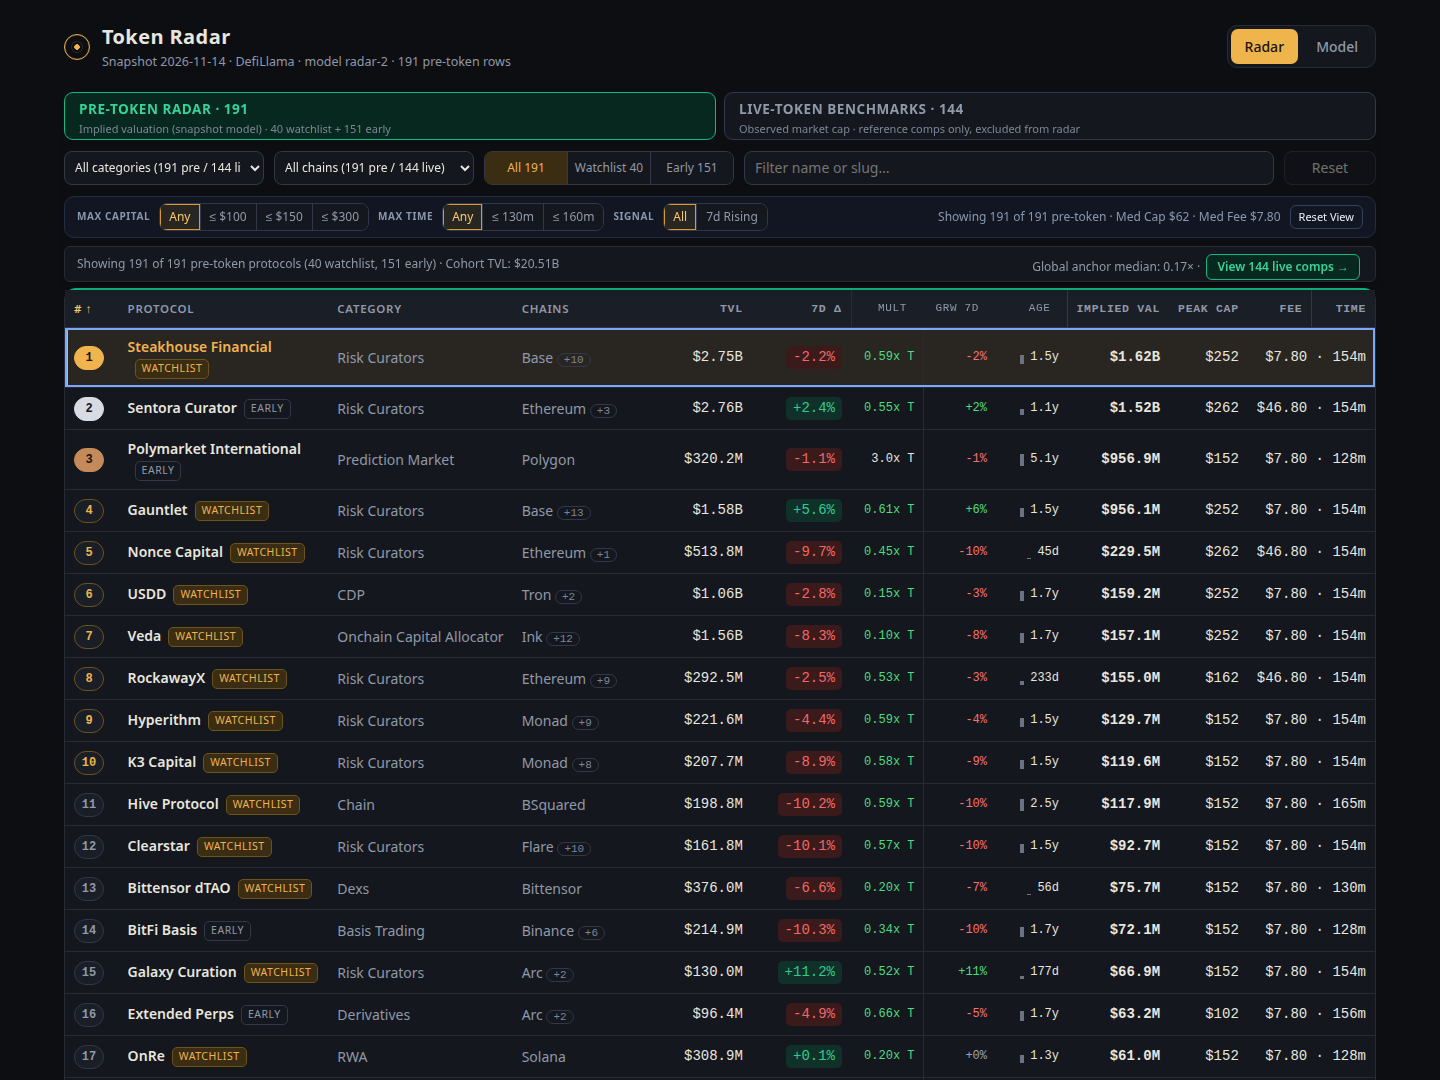
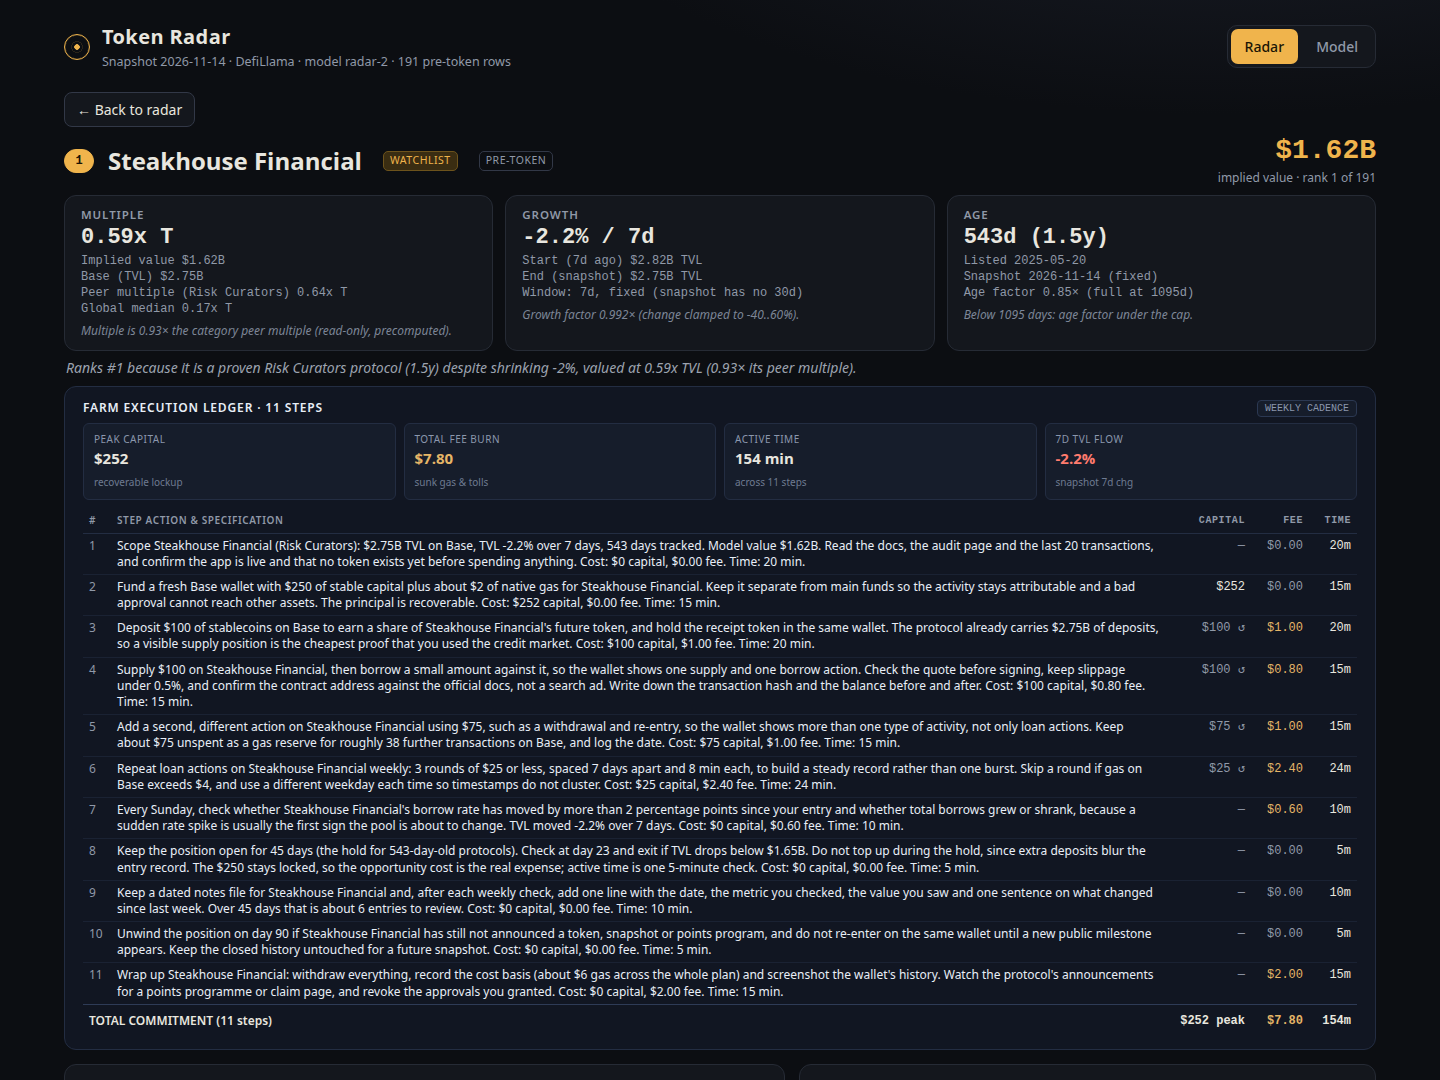
Dashboard v11: valuation breakdown and cohort position in detail view

Changed region(s): [[0.0312, 0.0611, 0.9688, 1.0], [0.375, 0.9778, 0.4062, 1.0]]

diff --git a/dashboard/app.js b/dashboard/app.js
@@ -271,6 +271,24 @@
         return '<tr><td class="flat">' + s.n + '</td><td class="tx">' + esc(r.farm_steps[i]) + '</td><td class="n">' + c + '</td><td class="n ' + (s.fee_usd ? 'fee' : 'flat') + '">' + fee(s.fee_usd) + '</td><td class="n">' + s.mins + 'm</td></tr>';
       }).join('') + '</tbody><tfoot><tr><td colspan="2">TOTAL COMMITMENT (' + k + ' steps)</td><td class="n">' + cap(e.peak_cap_usd) + ' peak</td><td class="n fee">' + fee(e.total_fee_usd) + '</td><td class="n">' + e.total_mins + 'm</td></tr></tfoot></table></div>';
   }
+  // Valuation breakdown + cohort position: numbers precomputed at build time (lib/breakdown.ts), only formatted here.
+  function bdCard(r) {
+    var b = r.bd.b, c = r.bd.c, k = b.category, g = b.growth, a = b.maturity, h = b.chain;
+    var row = function (t, v) { return '<dt>' + t + '</dt><dd>' + v + '</dd>'; };
+    return '<div class="card"><h3>Valuation breakdown</h3><dl class="kv">' +
+      row('TVL', full(b.tvl_usd)) +
+      row('Category median', k.raw_median === null ? 'none (0 live)' : k.raw_median.toFixed(3)) +
+      row('Global median', k.global_median.toFixed(3)) +
+      row('Live n · weight', k.n + ' · ' + k.weight.toFixed(3)) +
+      row('Multiple', x(k.multiple) + (k.multiple !== k.blended ? ' (clamped from ' + k.blended.toFixed(3) + ')' : '')) +
+      row('Growth', g.change_7d === null ? '—' : g.change_7d.toFixed(1) + '%') +
+      row('Growth used · ×', g.pct_used + '% · ' + x(g.multiplier)) +
+      row('Age days · ×', (a.age_days === null ? 'unknown (' + a.age_used + ')' : a.age_days) + ' · ' + x(a.multiplier)) +
+      row('Chains · ×', h.count + ' (+' + h.extra + ') · ' + x(h.multiplier)) +
+      row('Product = implied', full(b.implied_value_usd)) +
+      '</dl><p class="take">Cohort: rank ' + r.bd.c.rank_by_implied + ' of ' + c.cohort_size + ' in ' + esc(c.category) + ', percentile ' + c.percentile.toFixed(1) + ', category median implied ' + (c.median_implied_usd === null ? '—' : full(c.median_implied_usd)) + '</p></div>';
+  }
+
   function detailView(slug) {
     var r = bySlug[slug];
     if (!r) { app.innerHTML = '<div class="empty">Unknown protocol. <a href="#board">Back to board</a></div>'; return; }
@@ -295,8 +313,8 @@
       line('×', 'Maturity', ageNote, x(m.maturity_multiplier), track(m.maturity_multiplier, C.maturity_floor, C.maturity_floor + C.maturity_range)) +
       line('×', 'Chain', nch + ' chain' + (nch === 1 ? '' : 's') + ': 1 + ' + C.chain_step + ' × clamp(' + nch + ' − 1, 0, ' + C.chain_max_extra + ')', x(m.chain_multiplier), track(m.chain_multiplier, 1, 1 + C.chain_step * C.chain_max_extra)) +
       '<tr class="res"><td class="op">=</td><td class="lbl"><b>Implied value</b><small>unrounded product ' + full(product) + '; rounded, kept within 1 to 1e14</small></td><td class="v">' + full(r.implied_value_usd) + '</td></tr></tbody></table></div>' +
-      '<div class="card"><h3>Basics</h3><dl class="kv"><dt>Slug</dt><dd>' + esc(r.slug) + '</dd><dt>Category</dt><dd>' + esc(r.cat) + '</dd><dt>Listed</dt><dd>' + esc(r.listed_at || 'unknown') + '</dd><dt>TVL</dt><dd>' + usd(r.tvl_usd) + '</dd><dt>7d TVL change</dt><dd>' + chg(r.tvl_7d_pct) + '</dd><dt>Token</dt><dd>none yet (mcap null)</dd><dt>Board scope</dt><dd>' + (r.watchlist ? 'watchlist' : 'early (eligible extra)') + '</dd></dl>' +
-      '<div class="chips">' + r.chains.map(function (c) { return '<span>' + esc(c) + '</span>'; }).join('') + '</div></div></div>';
+      '<div><div class="card"><h3>Basics</h3><dl class="kv"><dt>Slug</dt><dd>' + esc(r.slug) + '</dd><dt>Category</dt><dd>' + esc(r.cat) + '</dd><dt>Listed</dt><dd>' + esc(r.listed_at || 'unknown') + '</dd><dt>TVL</dt><dd>' + usd(r.tvl_usd) + '</dd><dt>7d TVL change</dt><dd>' + chg(r.tvl_7d_pct) + '</dd><dt>Token</dt><dd>none yet (mcap null)</dd><dt>Board scope</dt><dd>' + (r.watchlist ? 'watchlist' : 'early (eligible extra)') + '</dd></dl>' +
+      '<div class="chips">' + r.chains.map(function (c) { return '<span>' + esc(c) + '</span>'; }).join('') + '</div></div>' + bdCard(r) + '</div></div>';
     document.getElementById('bk').onclick = function () { location.hash = '#board'; };
   }
 

diff --git a/lib/breakdown.ts b/lib/breakdown.ts
@@ -1,0 +1,70 @@
+// Display-only valuation breakdown + cohort position. Factors and the implied value come straight from model.ts
+// (factors / impliedOf), so the breakdown cannot drift from the board. Computed at build time; the browser never recomputes the model.
+import type { Protocol, CategoryStat } from './model.ts';
+import { MODEL, UNCATEGORIZED, median, factors, impliedOf } from './model.ts';
+
+export interface Breakdown {
+  slug: string;
+  tvl_usd: number;
+  category: { category: string; n: number; raw_median: number | null; global_median: number; weight: number; blended: number; multiple: number };
+  growth: { change_7d: number | null; pct_used: number; multiplier: number };
+  maturity: { age_days: number | null; age_used: number; multiplier: number };
+  chain: { count: number; extra: number; multiplier: number };
+  product: number;
+  implied_value_usd: number;
+}
+
+export function breakdownFor(p: Protocol, asOf: string, stat: CategoryStat, globalMedian: number): Breakdown {
+  const f = factors(p, asOf, stat.multiple);
+  const count = p.chains.length;
+  return {
+    slug: p.slug,
+    tvl_usd: p.tvl_usd,
+    category: {
+      category: stat.category,
+      n: stat.n,
+      raw_median: stat.raw_median,
+      global_median: globalMedian,
+      weight: stat.weight,
+      // unclamped shrunk value (same expression as categoryTable); `multiple` is this clamped to multiple_min..multiple_max
+      blended: stat.raw_median === null ? globalMedian : stat.weight * stat.raw_median + (1 - stat.weight) * globalMedian,
+      multiple: f.category_multiple,
+    },
+    growth: { change_7d: p.change_7d, pct_used: f.growth_pct, multiplier: f.growth_multiplier },
+    maturity: { age_days: f.age_days, age_used: f.age_used, multiplier: f.maturity_multiplier },
+    chain: { count, extra: Math.min(Math.max(count - 1, 0), MODEL.chain_max_extra), multiplier: f.chain_multiplier },
+    product: p.tvl_usd * f.category_multiple * f.growth_multiplier * f.maturity_multiplier * f.chain_multiplier,
+    implied_value_usd: impliedOf(p, f),
+  };
+}
+
+export interface CohortPosition {
+  category: string;
+  cohort_size: number;
+  rank_by_implied: number;
+  percentile: number; // 100 = top of the cohort, 0 = bottom; one decimal
+  median_implied_usd: number | null;
+}
+
+type CohortRow = { slug: string; category: string | null; implied_value_usd: number };
+
+/** Rank of every row inside its own category cohort (implied desc, slug asc), computed once for the whole board. */
+export function cohortPositions(rows: CohortRow[]): Map<string, CohortPosition> {
+  const groups = new Map<string, CohortRow[]>();
+  for (const r of rows) {
+    const k = r.category ?? UNCATEGORIZED;
+    if (!groups.has(k)) groups.set(k, []);
+    groups.get(k)!.push(r);
+  }
+  const out = new Map<string, CohortPosition>();
+  for (const [category, g] of [...groups].sort((a, b) => (a[0] < b[0] ? -1 : a[0] > b[0] ? 1 : 0))) {
+    const sorted = g.slice().sort((a, b) => b.implied_value_usd - a.implied_value_usd || (a.slug < b.slug ? -1 : a.slug > b.slug ? 1 : 0));
+    const med = median(g.map((r) => r.implied_value_usd));
+    sorted.forEach((r, i) => {
+      const rank = i + 1;
+      const percentile = sorted.length === 1 ? 100 : Math.round(((sorted.length - rank) / (sorted.length - 1)) * 1000) / 10;
+      out.set(r.slug, { category, cohort_size: sorted.length, rank_by_implied: rank, percentile, median_implied_usd: med });
+    });
+  }
+  return out;
+}

diff --git a/lib/model.ts b/lib/model.ts
@@ -3,6 +3,8 @@
 // Display-only layers (drivers, execution econ, facets) are computed here at build time and never feed back into the model.
 import { COST_RE, farmSteps } from './farm.ts';
 import type { FarmStep } from './farm.ts';
+import { breakdownFor, cohortPositions } from './breakdown.ts';
+import type { Breakdown, CohortPosition } from './breakdown.ts';
 
 export interface Protocol {
   slug: string; name: string; category: string | null; chains: string[]; tvl_usd: number;
@@ -185,7 +187,7 @@ export function driversOf(r: BoardRow, globalMedian: number): Drivers {
 
 // ---- board ----
 export type Cohort = { cat: string; pc: string };
-export type RadarRow = BoardRow & Cohort & { drivers: Drivers; tvl_7d_pct: number | null; econ: Econ };
+export type RadarRow = BoardRow & Cohort & { drivers: Drivers; tvl_7d_pct: number | null; econ: Econ; bd: { b: Breakdown; c: CohortPosition } };
 export type RadarLive = LiveRow & Cohort & { tvl_7d_pct: number | null };
 export interface Facets { categories: Array<{ id: string; pre: number; live: number; mult: number }>; chains: Array<{ id: string; pre: number; live: number }>; global_mult: number }
 export interface Radar {
@@ -244,10 +246,14 @@ export function buildRadar(snapshot: Snapshot): { board: BoardRow[]; radar: Rada
     mcap_usd: null, listed_at: p.listed_at, token_status: 'pre-token', watchlist: wl.has(p.slug), implied_value_usd: implied,
     model: f, farm_steps: plans[i]!.map((s) => s.text),
   }));
+  const cohorts = cohortPositions(board);
   const rows: RadarRow[] = board.map((b, i) => {
     const econ = buildEcon(plans[i]!);
     assertEcon(b.slug, b.farm_steps, econ);
-    return { ...b, cat: b.category ?? UNCATEGORIZED, pc: b.chains[0] ?? '—', drivers: driversOf(b, table.global_median), tvl_7d_pct: tvl7d(b), econ };
+    const p = ranked[i]!.p;
+    const bd = { b: breakdownFor(p, snapshot.as_of, table.lookup.get(catOf(p))!, table.global_median), c: cohorts.get(b.slug)! };
+    if (bd.b.implied_value_usd !== b.implied_value_usd) throw new Error(`breakdown diverges from board for ${b.slug}`);
+    return { ...b, cat: b.category ?? UNCATEGORIZED, pc: b.chains[0] ?? '—', drivers: driversOf(b, table.global_median), tvl_7d_pct: tvl7d(b), econ, bd };
   });
   const live: LiveRow[] = snapshot.protocols.filter(isLive).sort((a, b) => b.mcap_usd! - a.mcap_usd! || bySlug(a, b)).map((p) => ({
     slug: p.slug, name: p.name, category: p.category, chains: p.chains, tvl_usd: p.tvl_usd, change_7d: p.change_7d, mcap_usd: p.mcap_usd!,

diff --git a/main.ts b/main.ts
@@ -49,7 +49,7 @@ if (existsSync(refFile)) {
   }
 }
 // data.js rows carry extra display fields only: strip them and the rows must equal board.json exactly.
-const stripped = radar.rows.map(({ cat: _c, pc: _p, drivers: _d, tvl_7d_pct: _t, econ: _e, ...r }) => r);
+const stripped = radar.rows.map(({ cat: _c, pc: _p, drivers: _d, tvl_7d_pct: _t, econ: _e, bd: _b, ...r }) => r);
 if (JSON.stringify(stripped) !== JSON.stringify(board)) throw new Error('data.js rows diverge from board.json');
 if (radar.live.some((l) => 'implied_value_usd' in l || 'rank' in l || 'farm_steps' in l || 'econ' in l)) throw new Error('live rows carry pre-token fields');
 
